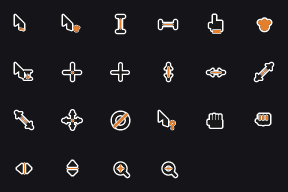
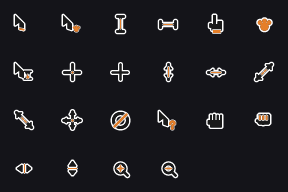
docs(scoot): cursor logical size, per-scale rasterisation, regenerated family shot
appearance.md states the size semantic (logical size, physical
rasterisation, what hidpi changes) and the hidpi paragraph in the
family section; CHANGELOG covers the hidpi behavior and the 24-grid
authoring; the family screenshot is regenerated from the evidence
tool, not by hand.

diff --git a/site/src/content/docs/scoot/appearance.md b/site/src/content/docs/scoot/appearance.md
@@ -17,7 +17,7 @@ live by `scoot msg reload`.
 | `focus_ring_inactive_color` | `"#rrggbb"` / `"#rrggbbaa"` | `#595961` (muted gray) | Ring color around every other window. |
 | `background_color` | `"#rrggbb"` / `"#rrggbbaa"` | `#141419` (near-black) | Cleared behind all window content — the frame clear color; what shows wherever [wallpaper](../scootbg/index.md) shows nothing. |
 | `corner_radius` | integer (pixels) | `0` (square) | Window corner radius in logical pixels. Rounds window content and ring together; clamped per window to half its smaller dimension. Costs a little per frame when non-zero. Popups stay square. |
-| `cursor_size` | integer (pixels) | `16` | Both dimensions of the built-in pointer cursor bitmaps (clamped `4..=256`; drawn only under `--tty`). Also picks which size is taken out of a real cursor theme. The fallback shapes are a 22-shape anti-aliased family drawn for this compositor (not theme copies) and upscale cleanly to fractional output scales — see [the fallback family](#the-fallback-cursor-family) below. |
+| `cursor_size` | integer (pixels) | `16` | The **logical** size of the built-in pointer cursor, both dimensions (clamped `4..=256`; drawn only under `--tty`). The bitmap is rasterised at `round(cursor_size × output scale)` physical pixels -- 16 at 1x, 24 at 1.5x, 32 at 2x -- so the on-screen size never changes but a high-DPI output samples native art 1:1 instead of a stretched bitmap. A real cursor theme likewise contributes the image nearest the physical size; `XCURSOR_SIZE` still exports the logical size. The fallback shapes are a 22-shape anti-aliased family drawn for this compositor (not theme copies) -- see [the fallback family](#the-fallback-cursor-family) below. |
 | `cursor_color` | `"#rrggbb"` / `"#rrggbbaa"` | `#1a1a1a` (near-black) | Body fill color of the built-in pointer cursor. The rim auto-contrasts the body (dark body → white rim, light body → black rim, both at the fill's own alpha), so setting this to white reproduces the old white-pointer look. A translucent fill genuinely composites (body, rim and accent all follow its alpha). The arrow alone carries a soft drop shadow at 28% of that alpha. No effect inside a real theme's artwork. |
 | `cursor_accent` | `"#rrggbb"` / `"#rrggbbaa"` / `"none"` | `#e57f29` (ginger orange) | The small ginger mark each fallback shape carries: the arrow's tail hint, the paw badge, the resize bars' centre line, the "not allowed" slash, and friends. `"none"` (any case) draws no mark; an unset or empty value keeps the default. Follows the body's alpha, so a translucent body never wears an opaque mark. No effect inside a real theme's artwork. |
 | `cursor_theme` | string | unset | Which installed xcursor theme named cursor shapes are drawn from. Unset follows `$XCURSOR_THEME`, then `default`. A name matching nothing installed is not an error: named shapes come from scoot's own drawn set. |
@@ -57,6 +57,13 @@ original vector geometry drawn by the compositor itself — no theme's
 pixels, embedded or copied. The concept art the family was designed
 against was generated with ChatGPT by the project owner; the shipped
 shapes are original geometry, never traced or pixel-copied.
+
+On a high-DPI output the family is rasterised natively at the physical
+size (`round(cursor_size × scale)` device pixels) from the same 24-unit
+design grid, so edges stay sharp where a stretched logical bitmap would
+go soft. Mixed-DPI sessions keep one bitmap set per output scale
+(bounded, evicted when no output uses a scale); screenshots and
+captures draw the same per-scale pixels the frame shows.
 
 ![The fallback cursor family](../../../assets/cursor-family.png)
 

diff --git a/CHANGELOG.md b/CHANGELOG.md
@@ -20,6 +20,20 @@ scoot has not cut a numbered release yet; entries are dated.
   "#ffffff"` restores the old white-pointer look (with a black rim).
   See [Appearance](site/src/content/docs/scoot/appearance.md#the-fallback-cursor-family).
 
+### Unreleased — sharp cursors on high-DPI outputs (behavior change)
+
+- **The built-in cursor now rasterises per output scale instead of
+  stretching one bitmap.** `appearance.cursor_size` is the logical size
+  (default 16, unchanged on screen); the bitmap is drawn at
+  `round(cursor_size × output scale)` physical pixels, so a 2x output
+  shows native 32px art with a matching hotspot rather than a
+  bilinear-stretched 16px image. Real cursor themes contribute the image
+  nearest the physical size. One bitmap set per output scale is kept
+  (bounded, built on output add/scale change and reload, never per
+  frame); mixed-DPI sessions draw each output's own set. The family
+  itself is now authored on a 24-unit design grid (same pixels at 16px
+  except a slightly broader paw-print toe spread).
+
 ### Unreleased — renderer names are `cpu` / `gpu` / `auto` (breaking)
 
 - **`--renderer` now takes `cpu`, `gpu` or `auto` — the old `pixman`
